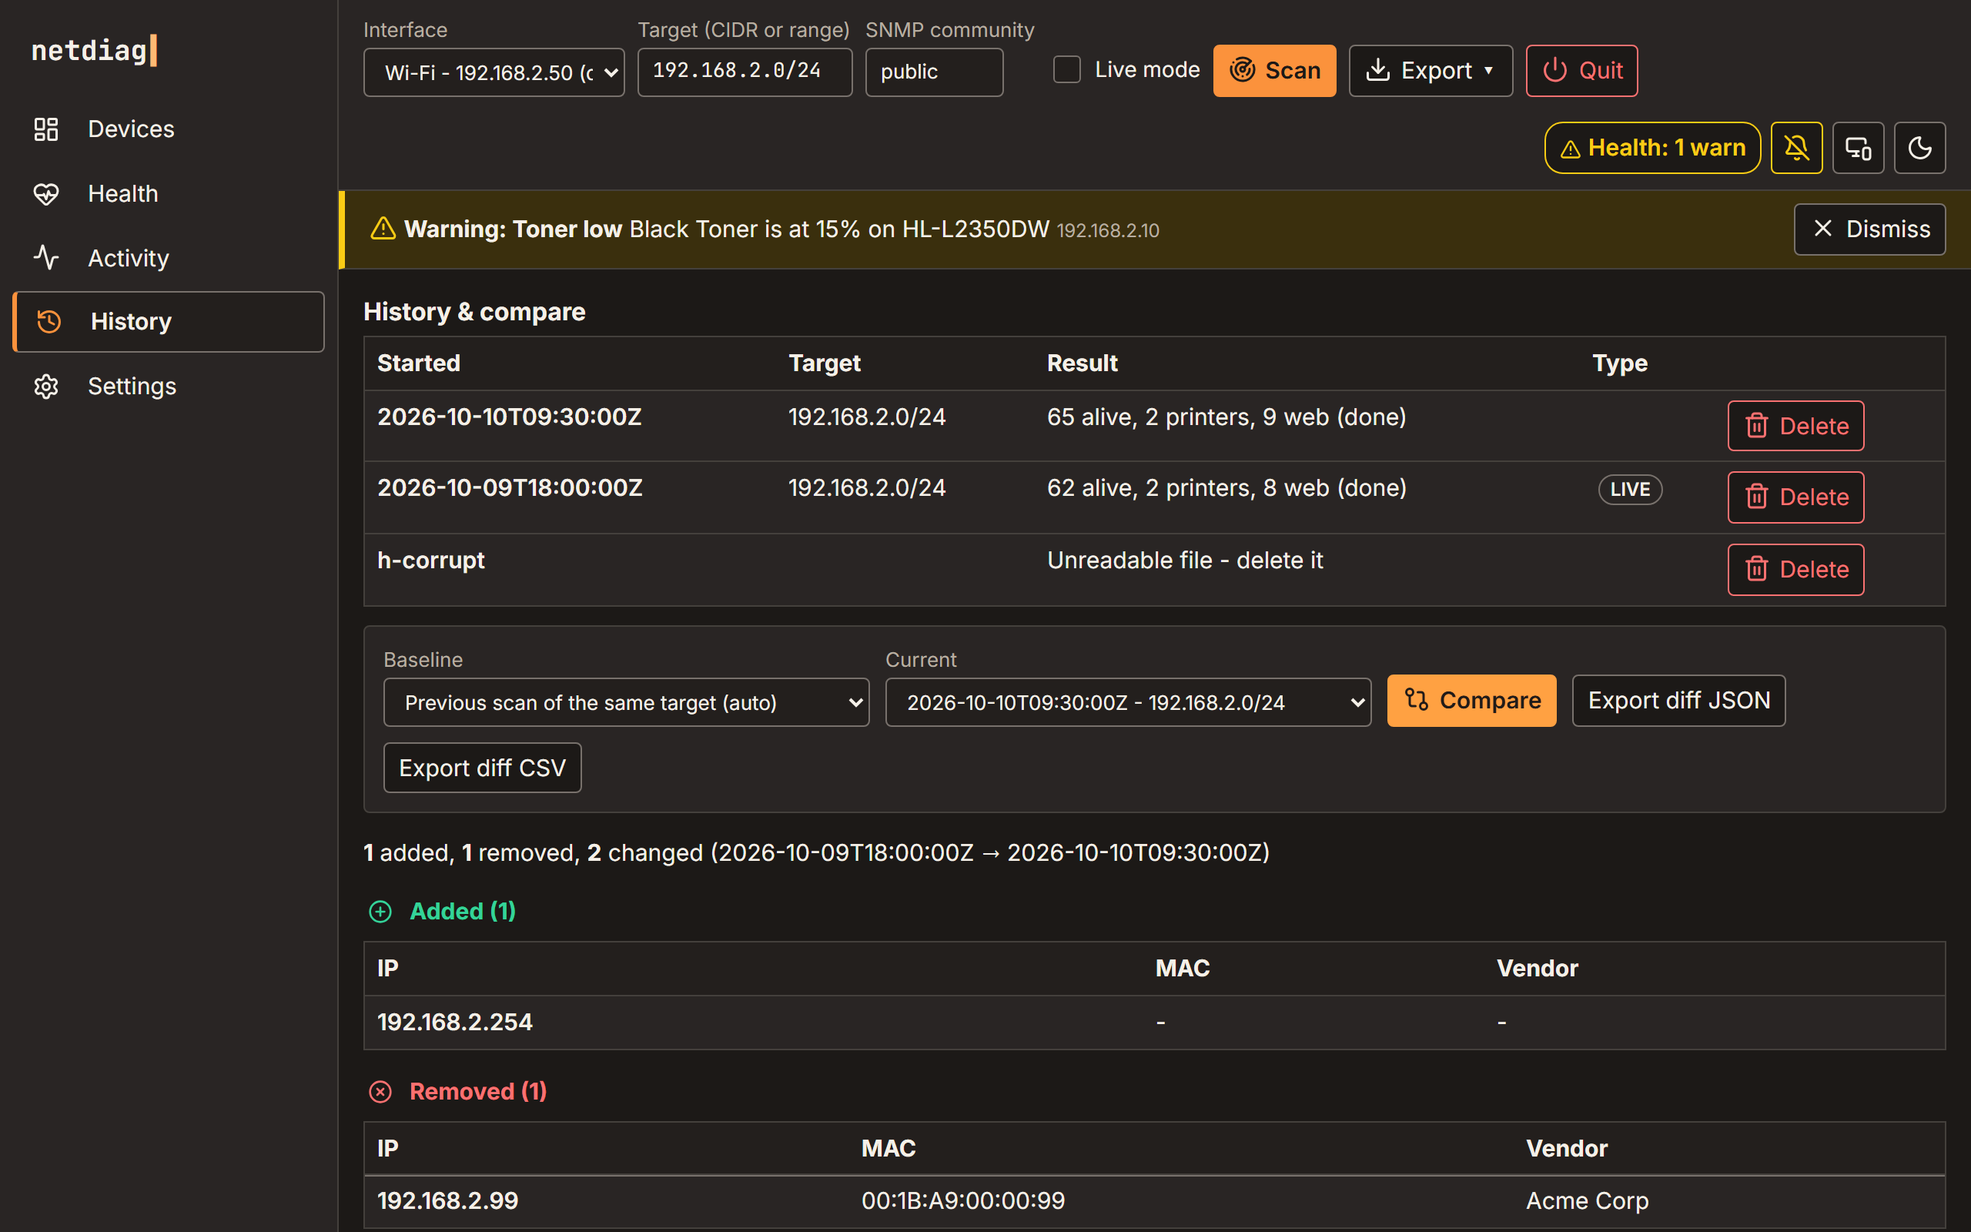
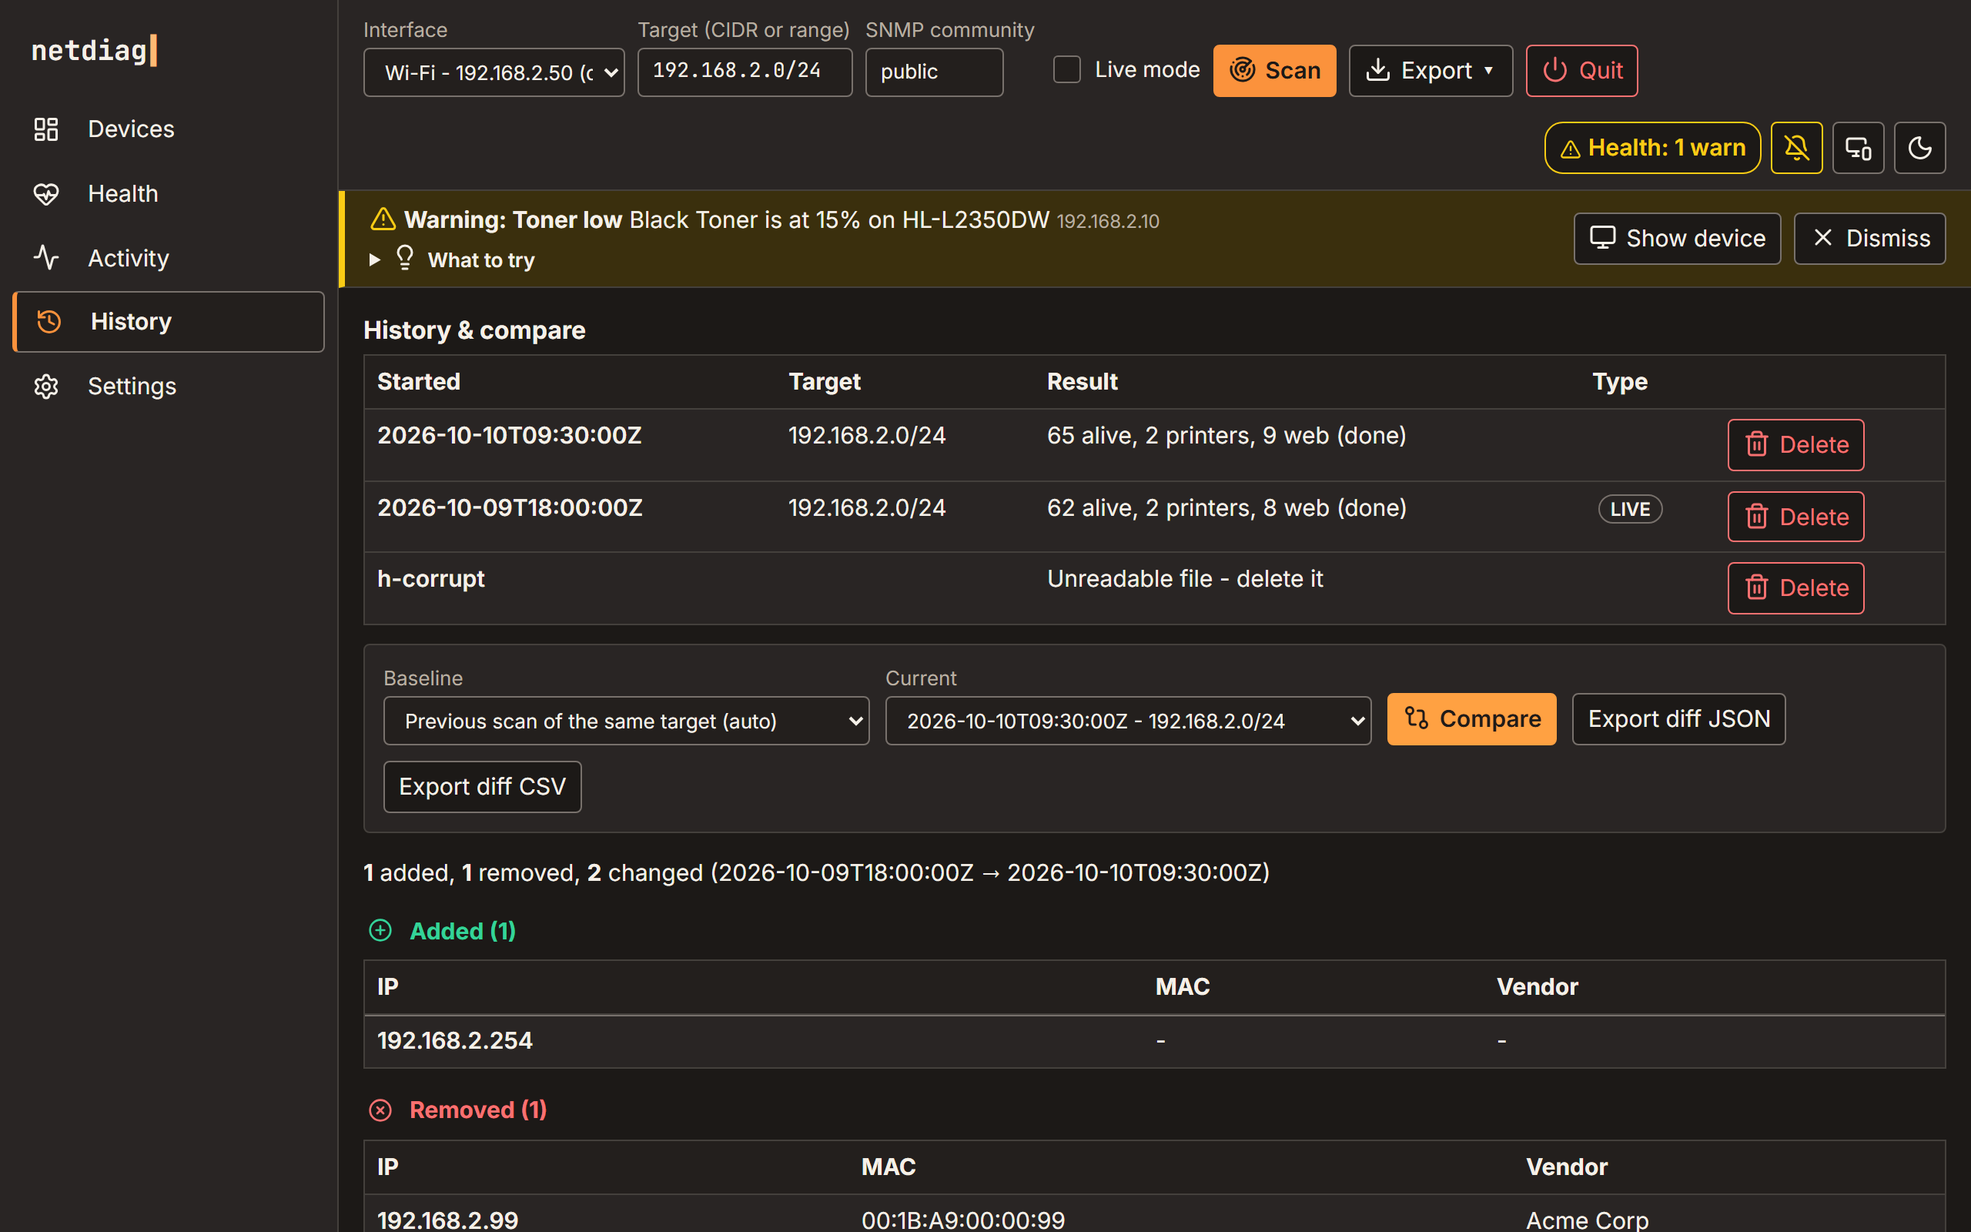
site and screenshots for v0.6: team chat band, Problems right now card, conflict drawer
docs-shots.spec now copies every README shot into docs/img: the Devices
view with the Problems right now card, the conflict view in the drawer,
and the new settings-chat.png and chat-wizard.png. site-shots.spec adds
chat-connect.png and settings-chat.png, shows advice on the health card
and a Fixed line in the Activity log. docs/index.html gets a "Chat
alerts that close themselves" band, the 10 runbooks, a note that the
real Zebra shots predate v0.6, and new alt text. The version pill stays
v0.5.8 until the release (M14).

diff --git a/docs/index.html b/docs/index.html
@@ -26,6 +26,7 @@
     <nav aria-label="Sections">
       <a href="#features">Features</a>
       <a href="#live">Live</a>
+      <a href="#chat">Team chat</a>
       <a href="#tour">Tour</a>
       <a href="#claude">Claude</a>
       <a href="#download" class="persist">Download</a>
@@ -54,8 +55,8 @@
       <div class="window">
         <div class="chrome" aria-hidden="true"><span class="dot"></span><span class="dot"></span><span class="dot"></span><span class="title">127.0.0.1 · netdiag · Devices</span></div>
         <button type="button" class="zoom" aria-label="Enlarge screenshot: Devices view">
-          <img class="t-dark" src="assets/shots/devices-dark.png" width="2560" height="1600" alt="netdiag Devices view: 65 devices alive, 2 printers, 32 web pages, 2 conflicts, health pills and the device table">
-          <img class="t-light" src="assets/shots/devices-light.png" width="2560" height="1600" alt="netdiag Devices view in the light theme" loading="lazy">
+          <img class="t-dark" src="assets/shots/devices-dark.png" width="2560" height="1600" alt="netdiag Devices view: the Problems right now card lists a printer alert, two low supplies and a possible conflict, each with a warning shape and word, then the tiles: 65 devices alive, 2 printers, 32 web pages, 2 conflicts">
+          <img class="t-light" src="assets/shots/devices-light.png" width="2560" height="1600" alt="netdiag Devices view in the light theme, with the Problems right now card" loading="lazy">
         </button>
       </div>
     </figure>
@@ -81,7 +82,7 @@
         <article class="card"><svg class="ico" aria-hidden="true"><use href="assets/icons.svg#i-globe"></use></svg><h3>Web pages and remote desktop</h3><p>Ports 80, 443, 8080 and 8443 probed for status, title, server and certificate, with a link to open each one. Computers with Remote Desktop or screen sharing open in one click.</p></article>
         <article class="card"><svg class="ico" aria-hidden="true"><use href="assets/icons.svg#i-heart-pulse"></use></svg><h3>Network health</h3><p>Gateway, DHCP lease, DNS, a web server you rely on, internet reachability and Wi-Fi signal, each with a plain-word status.</p></article>
         <article class="card"><svg class="ico" aria-hidden="true"><use href="assets/icons.svg#i-shield-alert"></use></svg><h3>IP conflicts</h3><p>Two devices fighting over one address, one MAC on many IPs, or duplicate names. Mesh nodes and extenders can be ignored in one click.</p></article>
-        <article class="card"><svg class="ico" aria-hidden="true"><use href="assets/icons.svg#i-bell-ring"></use></svg><h3>Live alerts</h3><p>Leave it running: banners, a beep and optional desktop notifications when a printer jams, a supply runs low or a device drops off. <a href="#live">How it works</a></p></article>
+        <article class="card"><svg class="ico" aria-hidden="true"><use href="assets/icons.svg#i-bell-ring"></use></svg><h3>Live alerts</h3><p>Leave it running: a <b>Problems right now</b> card, banners and a beep when a printer jams, a supply runs low or a device drops off, and a quiet <b>Fixed</b> when it is sorted. Each one says what to try. <a href="#live">How it works</a></p></article>
         <article class="card"><svg class="ico" aria-hidden="true"><use href="assets/icons.svg#i-type-computer"></use></svg><h3>Device types</h3><p>Printer, TV, NAS, phone, camera, network gear, smart home and more, from real signals. Unknown stays unknown: no guessing.</p></article>
         <article class="card"><svg class="ico" aria-hidden="true"><use href="assets/icons.svg#i-git-compare"></use></svg><h3>History &amp; compare</h3><p>Every scan is saved. Compare any two to see what was added, removed or changed, and export it as JSON or CSV.</p></article>
       </div>
@@ -100,7 +101,7 @@
         <li class="tick hot"><span class="t">12:36:20</span><b>Two critical alerts</b><span>Door or cover open, and printer offline or paused. Red banners, a beep, a desktop notification.</span></li>
         <li class="tick ok"><span class="t">12:36:45</span><b>Printer OK again</b><span>Cover closed: netdiag says what cleared, so you know it is safe to print.</span></li>
       </ol>
-      <p class="realnote"><svg class="ico" aria-hidden="true"><use href="assets/icons.svg#i-camera"></use></svg>Real hardware, not a mock-up: these screenshots were captured from netdiag watching a Zebra ZD621 label printer while someone opened and closed its cover.</p>
+      <p class="realnote"><svg class="ico" aria-hidden="true"><use href="assets/icons.svg#i-camera"></use></svg>Real hardware, not a mock-up: these screenshots were captured from netdiag 0.5 watching a Zebra ZD621 label printer while someone opened and closed its cover. Since 0.6 the open cover is one alert, "Door or cover open", and its banner turns into <b>Fixed</b> when the cover closes.</p>
 
       <figure class="shot live-shot"><div class="window"><div class="chrome" aria-hidden="true"><span class="dot"></span><span class="dot"></span><span class="dot"></span><span class="title">Live · Zebra ZD621 · cover open</span></div>
         <button type="button" class="zoom" aria-label="Enlarge screenshot: live mode with printer alerts"><img src="assets/shots/real-zebra-fault.png" width="2560" height="1600" loading="lazy" alt="Live mode on a real network: two critical banners for a Zebra ZD621, door or cover open and printer offline or paused. The printer row has a red status icon and names both alerts."></button></div></figure>
@@ -147,6 +148,36 @@
     </div>
   </section>
 
+  <section class="band" id="chat">
+    <div class="wrap">
+      <p class="eyebrow">New in 0.6</p>
+      <h2>Chat alerts that close themselves.</h2>
+      <p class="sub">Connect netdiag to your team chat (bubbles) and the whole team sees it when something on the local network breaks: once, in plain words, with what to try. When the problem is fixed, netdiag closes the same chat card itself: “Fixed at 10:42 (was down 12 min)”.</p>
+
+      <div class="feature slim">
+        <div class="copy">
+          <p class="reading-label">Connect in a few clicks</p>
+          <h3>Find the server, compare four groups, ask for approval.</h3>
+          <p>netdiag finds your chat server on the local network. You compare the first four groups of its fingerprint with what your chat admin reads in bubbles, so nothing can pretend to be it, and your chat admin approves netdiag and picks the channel. A test alert checks it works. No typing, and no administrator rights on this computer.</p>
+          <ul class="readings"><li class="r-ok">It matches</li><li>admin approves</li><li class="r-ok">test alert sent</li></ul>
+        </div>
+        <figure class="shot dialog-shot"><div class="window"><div class="chrome" aria-hidden="true"><span class="dot"></span><span class="dot"></span><span class="dot"></span><span class="title">Connect to team chat</span></div>
+          <button type="button" class="zoom" aria-label="Enlarge screenshot: connect to team chat"><img src="assets/shots/chat-connect.png" width="1120" height="616" loading="lazy" alt="Connect to team chat: Is this the right server? The first four groups of the fingerprint, 3F2A 9C10 77B4 E0D1, in large letters, with It matches and It doesn't buttons"></button></div></figure>
+      </div>
+
+      <div class="feature flip slim">
+        <div class="copy">
+          <p class="reading-label">Alerts you can trust</p>
+          <h3>Once, while it matters, then closed.</h3>
+          <p>A health check must fail twice, and a device miss two checks, before it reaches chat, so one bad check never pings the team, and only warnings and urgent problems go by default. If this computer loses the network or goes to sleep, netdiag pauses its checks instead of flooding the channel. Alerts that wait for the chat server keep their real time, and one fixed in the meantime is never sent. Chat alerts go out while netdiag is open and watching.</p>
+          <ul class="readings"><li class="r-warn">warning</li><li class="r-ok">Fixed at 10:42</li><li>no storms</li></ul>
+        </div>
+        <figure class="shot dialog-shot"><div class="window"><div class="chrome" aria-hidden="true"><span class="dot"></span><span class="dot"></span><span class="dot"></span><span class="title">Settings · Team chat</span></div>
+          <button type="button" class="zoom" aria-label="Enlarge screenshot: team chat settings"><img src="assets/shots/settings-chat.png" width="1180" height="576" loading="lazy" alt="Settings, Team chat (bubbles): status Connected, sending to #netdiag-alerts on Office, the Send alerts to team chat switch, Send problems and warnings, and the Send test alert, Change channel and Disconnect buttons"></button></div></figure>
+      </div>
+    </div>
+  </section>
+
   <section class="band" id="tour">
     <div class="wrap">
       <p class="eyebrow">A tour</p>
@@ -168,22 +199,22 @@
         <div class="copy">
           <p class="reading-label">Health</p>
           <h3>Is it the network, or the device?</h3>
-          <p>One card per check with a status word, the detail and the response time. A health problem never stops a scan, and the internet check is information only, because plenty of local networks have no internet at all.</p>
-          <ul class="readings"><li class="r-ok">gateway 1.4 ms</li><li class="r-ok">DNS 18.2 ms</li><li class="r-warn">Wi-Fi 48%</li></ul>
+          <p>One card per check with a status word and the response time. A card that is not fine says what it means in plain words and lists up to three things to try, with the raw detail under Technical details. The internet check is information only, because plenty of local networks have no internet at all, and one switch tells netdiag a network has none on purpose.</p>
+          <ul class="readings"><li class="r-ok">gateway 1.4 ms</li><li class="r-ok">DNS 18.2 ms</li><li class="r-warn">Wi-Fi 48%: what to try</li></ul>
         </div>
         <figure class="shot"><div class="window"><div class="chrome" aria-hidden="true"><span class="dot"></span><span class="dot"></span><span class="dot"></span><span class="title">Health</span></div>
-          <button type="button" class="zoom" aria-label="Enlarge screenshot: health view"><img src="assets/shots/health.png" width="2560" height="1600" loading="lazy" alt="Health view with cards for gateway, DHCP, DNS, web server, internet and Wi-Fi"></button></div></figure>
+          <button type="button" class="zoom" aria-label="Enlarge screenshot: health view"><img src="assets/shots/health.png" width="2560" height="1600" loading="lazy" alt="Health view with cards for gateway, DHCP, DNS, web server, internet and Wi-Fi; the weak Wi-Fi card says what it means and what to try"></button></div></figure>
       </div>
 
       <div class="feature">
         <div class="copy">
           <p class="reading-label">Activity</p>
           <h3>A running log of what changed.</h3>
-          <p>Scan stages, new and offline devices, conflicts, health changes and printer notices, each with the time. Filter by kind with the chips and copy the visible lines to send to someone.</p>
-          <ul class="readings"><li>500 lines kept</li><li class="r-warn">conflict</li><li class="r-info">notice</li></ul>
+          <p>Scan stages, new and offline devices, conflicts, health changes and printer notices, each with the time, and a Fixed line when a problem goes away. Filter by kind with the chips and copy the visible lines to send to someone.</p>
+          <ul class="readings"><li>500 lines kept</li><li class="r-warn">conflict</li><li class="r-ok">Fixed</li></ul>
         </div>
         <figure class="shot"><div class="window"><div class="chrome" aria-hidden="true"><span class="dot"></span><span class="dot"></span><span class="dot"></span><span class="title">Activity</span></div>
-          <button type="button" class="zoom" aria-label="Enlarge screenshot: activity log"><img src="assets/shots/activity.png" width="2560" height="1600" loading="lazy" alt="Activity log showing scan stages, an IP conflict and a toner-low notice"></button></div></figure>
+          <button type="button" class="zoom" aria-label="Enlarge screenshot: activity log"><img src="assets/shots/activity.png" width="2560" height="1600" loading="lazy" alt="Activity log showing scan stages, an IP conflict, a toner-low notice and the Fixed line when the toner was replaced"></button></div></figure>
       </div>
 
       <div class="feature flip">
@@ -202,7 +233,7 @@
 
   <section class="band claude" id="claude">
     <div class="wrap">
-      <p class="eyebrow">New in 0.5</p>
+      <p class="eyebrow">Claude over MCP</p>
       <h2>Ask Claude what is wrong with the network.</h2>
       <p class="sub">netdiag speaks MCP (Model Context Protocol), so Claude or another AI agent on this computer can read scan results and run diagnostics, and explain them in plain words.</p>
 
@@ -215,9 +246,14 @@
             <div class="out"><code>netdiag: … mcp - <span class="ok">✔ Connected</span></code></div>
             <div class="out ask"><code><span class="you">&gt;</span> Use netdiag to scan the network and tell me why the Brother printer is offline.</code></div>
           </div>
-          <p class="note">On a Mac use <code>/path/to/netdiag mcp</code>. Claude Desktop and sharing the open window over HTTP are covered in the <a href="https://github.com/donaldsteele/netdiag#connect-claude-ai-agent-access-via-mcp">README</a>.</p>
-          <h3 class="minor">Built-in playbooks</h3>
+          <p class="note">On a Mac use <code>/path/to/netdiag mcp</code>. Claude Desktop, sharing the open window (<code>netdiag mcp --attach</code> or HTTP) and the full runbook list are covered in the <a href="https://github.com/donaldsteele/netdiag#connect-claude-ai-agent-access-via-mcp">README</a>.</p>
+          <h3 class="minor">Built-in runbooks</h3>
           <ul class="plays">
+            <li><code>explain_problems</code> What is wrong right now?</li>
+            <li><code>internet_not_working</code> Where does the connection break?</li>
+            <li><code>device_offline</code> Why did this device stop answering?</li>
+            <li><code>check_chat_alerts</code> Are the team chat alerts still right?</li>
+            <li><code>first_look</code> What is on this network?</li>
             <li><code>triage_network</code> What needs attention first?</li>
             <li><code>diagnose_printer</code> Why is this printer not printing?</li>
             <li><code>explain_conflict</code> Who is fighting over this IP?</li>
@@ -229,7 +265,7 @@
           <figure class="shot dialog-shot"><div class="window"><div class="chrome" aria-hidden="true"><span class="dot"></span><span class="dot"></span><span class="dot"></span><span class="title">Settings · Agent access</span></div>
             <button type="button" class="zoom" aria-label="Enlarge screenshot: agent access settings"><img src="assets/shots/settings-mcp.png" width="1180" height="482" loading="lazy" alt="Settings dialog with the Agent access (MCP) switch turned on and the endpoint address with a copy button"></button></div></figure>
           <ul class="safety">
-            <li><svg class="ico" aria-hidden="true"><use href="assets/icons.svg#i-circle-check"></use></svg>Read and diagnose only: agents cannot change settings, delete history or quit.</li>
+            <li><svg class="ico" aria-hidden="true"><use href="assets/icons.svg#i-circle-check"></use></svg>Read and diagnose only: agents cannot change settings, delete history, quit, stop the watching you started or post to team chat.</li>
             <li><svg class="ico" aria-hidden="true"><use href="assets/icons.svg#i-circle-check"></use></svg>The SNMP community string is never shown to the agent.</li>
             <li><svg class="ico" aria-hidden="true"><use href="assets/icons.svg#i-circle-check"></use></svg>This computer only (127.0.0.1). HTTP access is off until you switch it on.</li>
           </ul>

diff --git a/tools/uitest/README.md b/tools/uitest/README.md
@@ -28,19 +28,24 @@ Outputs (all under `out/`, git-ignored):
 - `out/shots/{empty,health,history,settings}-<theme>.png`: state screenshots.
 - `out/shots/vision-<type>-<theme>-{devices,health}.png` and `out/axe/vision-<type>-<theme>.json`: colour-vision screenshots from `vision.spec.mjs`.
 - `out/axe/<config>.json`: axe violations per screenshot config (also attached to the test report).
-- `out/docs/devices-dark.png` and `out/docs/drawer-light.png`: the two README screenshots.
+- `out/docs/*.png`: the README screenshots, also copied into `docs/img/` (see below).
 - `out/test-results/`: Playwright artifacts.
 
-## Refreshing the README screenshots
+## Refreshing the screenshots
 
-1. Run `npx playwright test tests/docs-shots.spec.mjs`. The spec renders a 1280x800 viewport
-   at CSS scale 1 with reduced motion emulated, so the PNGs stay under 250 KB each.
-2. Check the sizes with `ls -l out/docs/`.
-3. Copy the two files into the repo: `cp out/docs/devices-dark.png out/docs/drawer-light.png ../../docs/img/`.
-4. Check that `README.md` still references `docs/img/devices-dark.png` and `docs/img/drawer-light.png`.
+Both screenshot specs run with the full suite, so every `npx playwright test` refreshes them.
 
-Do not add the copies to the harness output folder by hand; `docs/img/` is the committed location.
-The copy into `docs/img/` is manual: the spec writes only to `out/docs/`, and nothing copies the files for you.
+1. README (`docs/img/`): `npx playwright test tests/docs-shots.spec.mjs`. It renders a 1280x800 viewport
+   at CSS scale 1 with reduced motion emulated, so the PNGs stay under 250 KB each, writes them to
+   `out/docs/` and copies them into `docs/img/`: `devices-dark.png` (with the Problems right now card),
+   `drawer-light.png` (the conflict view), `settings-mcp.png`, `settings-chat.png` and `chat-wizard.png`.
+2. Site (`docs/assets/shots/`): `npx playwright test tests/site-shots.spec.mjs`, at 2x, written straight
+   to `docs/assets/shots/`.
+3. Look at a few of them (both themes) before committing, and check `git status` lists only the shots you expected.
+
+The real Zebra shots (`real-zebra-*.png`) and the bubbles resolved-card shot (`bubbles-resolved.png`)
+need the printer and a bubbles server; `docs/field-checklist.md` section 6.1 says how to take them.
+`go test ./tools/docscheck` checks that every screenshot the README and the site show exists.
 
 ## How it works
 
@@ -75,7 +80,7 @@ The copy into `docs/img/` is manual: the spec writes only to `out/docs/`, and no
   the drawer, tiles and health strip, activity log and navigation.
 - `tests/responsive.spec.mjs`, `motion.spec.mjs`: width and reduced-motion checks.
 - `tests/shots.spec.mjs`: screenshots and axe for the four configs.
-- `tests/docs-shots.spec.mjs`: the two README screenshots.
+- `tests/docs-shots.spec.mjs`: the README screenshots; `tests/site-shots.spec.mjs`: the site screenshots.
 - `tests/icons.spec.mjs`: icon presence in the sprite, the icon for each device type, and the device type in the drawer.
 - `tests/vision.spec.mjs`: colour-vision check. Uses CDP `Emulation.setEmulatedVisionDeficiency` for deuteranopia, protanopia and tritanopia, in both themes, and writes the `out/shots/vision-*` files above.
 
